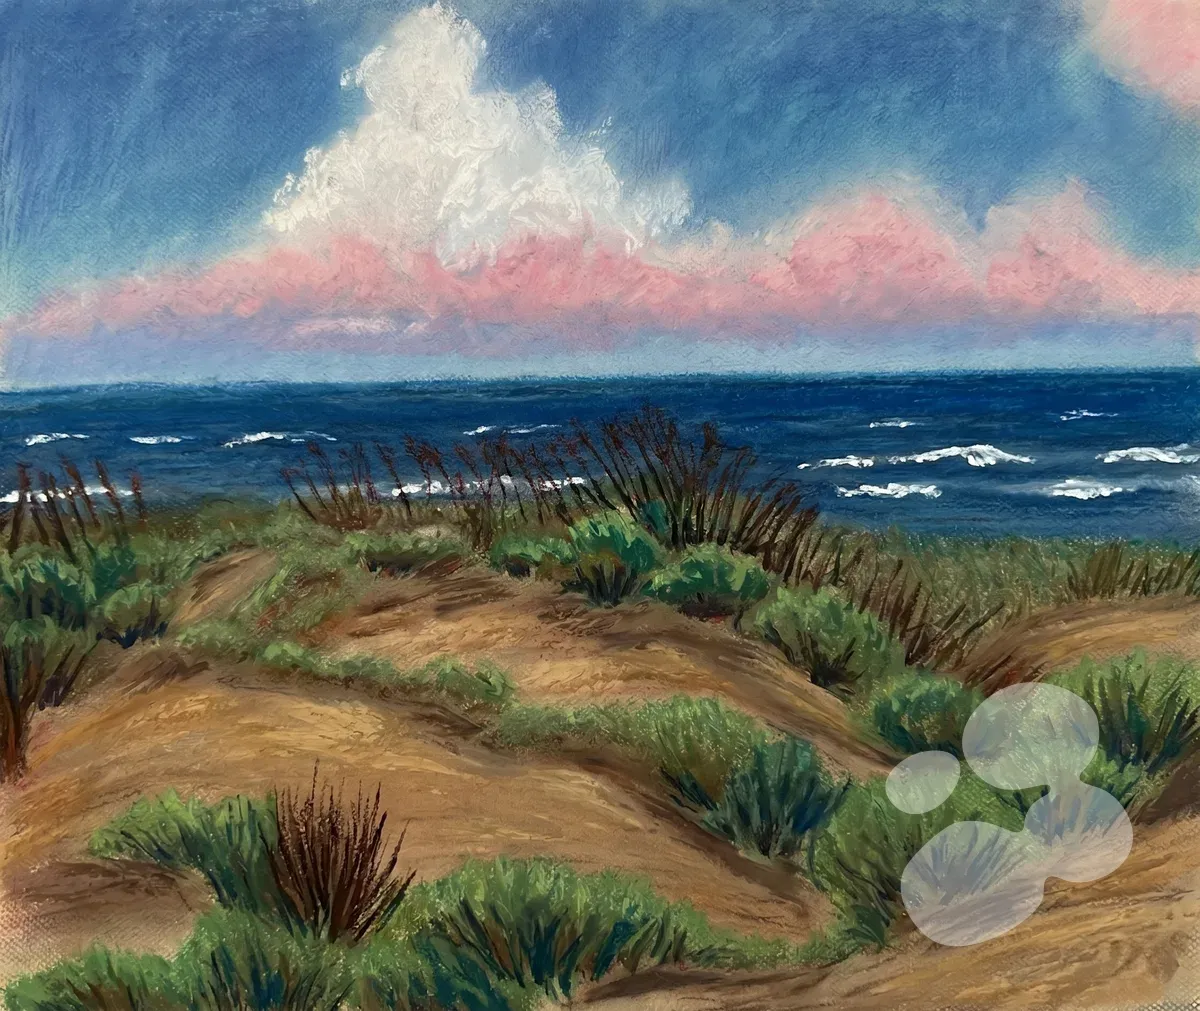
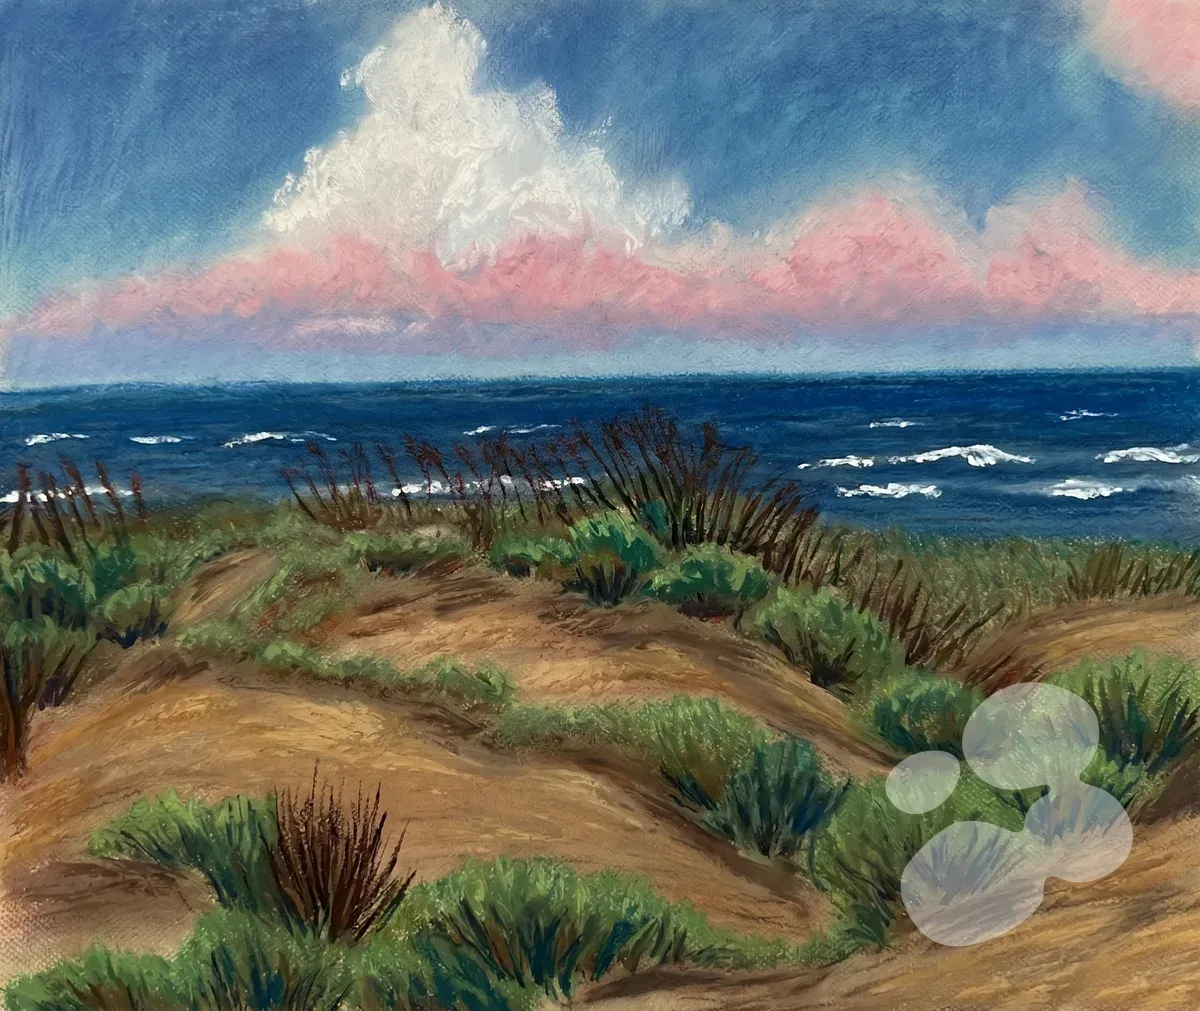
Texas Lake: repaint the pale bottom-right corner in the gallery art and mockups

Changed region(s): [[0.8942, 0.8586, 1.0, 1.0]]

diff --git a/LOGBOOK.md b/LOGBOOK.md
@@ -19,6 +19,20 @@ When this logbook exceeds ~1000 lines, split it:
 
 ---
 
+## Entry 174 - 2026-11-14
+
+**Agent:** Claude Code, claude-opus-5-5 (Quill, VOID), main agent
+**Task:** Comet: carry the Texas Lake corner repair from the Redbubble print (cash repo, `scripts/redbubble_prints.py` `patch_corner`) to the portfolio gallery.
+
+- Defect: the bottom-right ~185x200 px of the 2240x1888 original (blob 2216a1fcc7) is pale, unpainted paper with a dotted texture. On the site it sat under the watermark's edge.
+- Watermark recipe rebuilt and proven: the ce81a48 compositing script was discarded, but sharp with images/watermarks/watermark-white.svg (density 600) at 27% width, 2.7% margin, bottom-right, webp quality 80, on the pre-watermark public file (14a42ee5b6, 1200x1011) reproduces the live 1213a167cb exactly (mean diff 0, same 184946 bytes).
+- Repair applied as a delta only: resize(patched original) minus resize(original), added to 14a42ee5b6, so every pixel outside the corner box (x 1065-1199, y 864-1010) is untouched (9 of 1.2 M pixels moved more than 8 levels after re-encode). Then the watermark recipe. Installed at public/images/myart/Gallery/, images/myart/Gallery/ and images/watermarked/Gallery/ (identical bytes); 480w/900w rungs regenerated (--force --only).
+- Mockups: the committed ones (39a1b07, 2026-10-09) predate the watermark, like every other work's. The generator reads the now-watermarked public file, so a plain regen stamped the mark onto the poster and framed scenes. Rendered them from the repaired clean copy instead (put in place for the run, then the watermarked file restored and checked with cmp), plus their rungs.
+- Checks: npx playwright test tests/gallery-mockups.spec.js, 19 passed, 1 skipped. Corner crops of the gallery file and the poster mockup looked at side by side with the old ones. Not run: the visual gate (gallery thumbnails change at the corner; baselines live on the Linux container run).
+- Committed on portfoliowebsite, not pushed: a push is a production deploy and waits for Comet's yes after the local review link.
+
+---
+
 ## Entry 173 - 2026-11-05
 
 **Agent:** Claude Code, claude-opus-5-5 (Serenade, VOID), main agent
